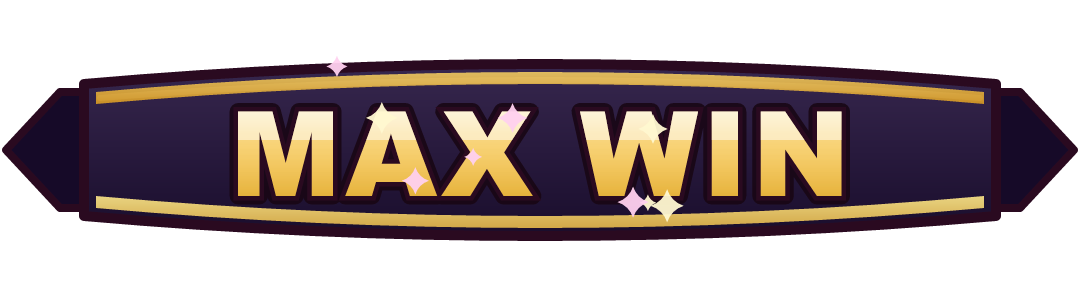
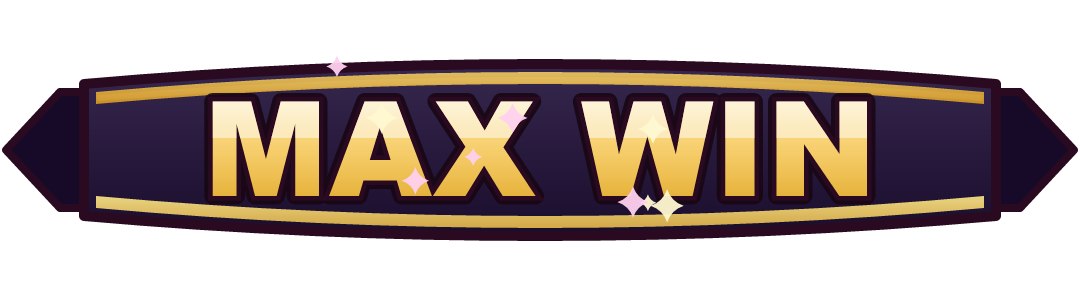
fix(WildParty): 修正報獎金額牌與文字錯位+加大H1-H4圖示與橫幅字樣
- 修正count_plaque對不上實際數字位置的bug:改成跟文字放在同一個
  容器(共用winLevelSymbolKey ? 270 : 0偏移),不再靠spine slot對位
  (spine結構完全不知道Svelte端這個條件式偏移,只有max等級沒圖示時
  兩者才會剛好對齊)
- 橫幅文字(BIG/SUPER/MEGA/EPIC/MAX WIN)字級118→132,字距收緊配合
- H1-H4符號圖示基礎縮放1.35→1.75
- pile裝飾的彩色圓點全部移到絲帶輪廓範圍以上的安全區,不再飄在
  文字周圍造成閱讀干擾

Changed region(s): [[0.1833, 0.3, 0.825, 0.69], [0.4889, 0.63, 0.5194, 0.66]]

diff --git a/apps/WildParty/src/components/Win.svelte b/apps/WildParty/src/components/Win.svelte
@@ -8,7 +8,7 @@
 </script>
 
 <script lang="ts">
-	import { Container } from 'pixi-svelte';
+	import { Container, Sprite } from 'pixi-svelte';
 	import { FadeContainer, WinCountUpProvider, ResponsiveBitmapText } from 'components-pixi';
 	import { waitForResolve, waitForTimeout } from 'utils-shared/wait';
 	import { bookEventAmountToCurrencyString } from 'utils-shared/amount';
@@ -136,19 +136,29 @@
 										<WinLevelSymbolIntro symbolKey={winLevelSymbolKey} />
 									</Container>
 								{/if}
-								<ResponsiveBitmapText
-									anchor={0.5}
-									y={winLevelSymbolKey ? 270 : 0}
-									maxWidth={2130}
-									text={bookEventAmountToCurrencyString(countUpAmount)}
-									style={{
-										fontFamily: 'gold',
-										fontSize: SYMBOL_SIZE * 2.0,
-										align: 'center',
-										fontWeight: 'bold',
-										letterSpacing: 0,
-									}}
-								/>
+								<!-- plaque + text share this container so they always move together,
+								     instead of the plaque tracking a spine slot that doesn't know
+								     about the conditional 270 offset below -->
+								<Container y={winLevelSymbolKey ? 270 : 0}>
+									<Sprite
+										key="countPlaque"
+										anchor={0.5}
+										width={SYMBOL_SIZE * 8.4}
+										height={SYMBOL_SIZE * 1.9}
+									/>
+									<ResponsiveBitmapText
+										anchor={0.5}
+										maxWidth={2130}
+										text={bookEventAmountToCurrencyString(countUpAmount)}
+										style={{
+											fontFamily: 'gold',
+											fontSize: SYMBOL_SIZE * 2.0,
+											align: 'center',
+											fontWeight: 'bold',
+											letterSpacing: 0,
+										}}
+									/>
+								</Container>
 							</WinAnimation>
 						{:else}
 							<ResponsiveBitmapText

diff --git a/apps/WildParty/src/components/WinLevelSymbolIntro.svelte b/apps/WildParty/src/components/WinLevelSymbolIntro.svelte
@@ -24,8 +24,9 @@
 
 	// gentle breathing — the themed scene supplies the motion (lid opening,
 	// cork popping, glass swaying, rays turning).
-	// Base 1.35 compensates for the ×0.5 slot scaling in the big-win spine.
-	const scale = $derived(1.35 + 0.04 * Math.sin(tick / 14));
+	// Base 1.75 compensates for the ×0.5 slot scaling in the big-win spine
+	// (bumped from 1.35 so the icon reads clearly next to the bigger banner text).
+	const scale = $derived(1.75 + 0.05 * Math.sin(tick / 14));
 </script>
 
 <Container {scale}>

diff --git a/apps/WildParty/src/game/assets.ts b/apps/WildParty/src/game/assets.ts
@@ -323,6 +323,14 @@ export default {
 			scale: 1,
 		},
 	},
+	// win-amount readout plaque — plain sprite (not part of the bigwin spine atlas)
+	// so it can be positioned in the exact same conditionally-offset container as
+	// the count-up text in Win.svelte, guaranteeing alignment
+	countPlaque: {
+		type: 'sprite',
+		src: new URL('../../assets/spines/bigwinParty/count_plaque.png', import.meta.url).href,
+		preload: true,
+	},
 	globalMultiplier: {
 		type: 'spine',
 		src: {
